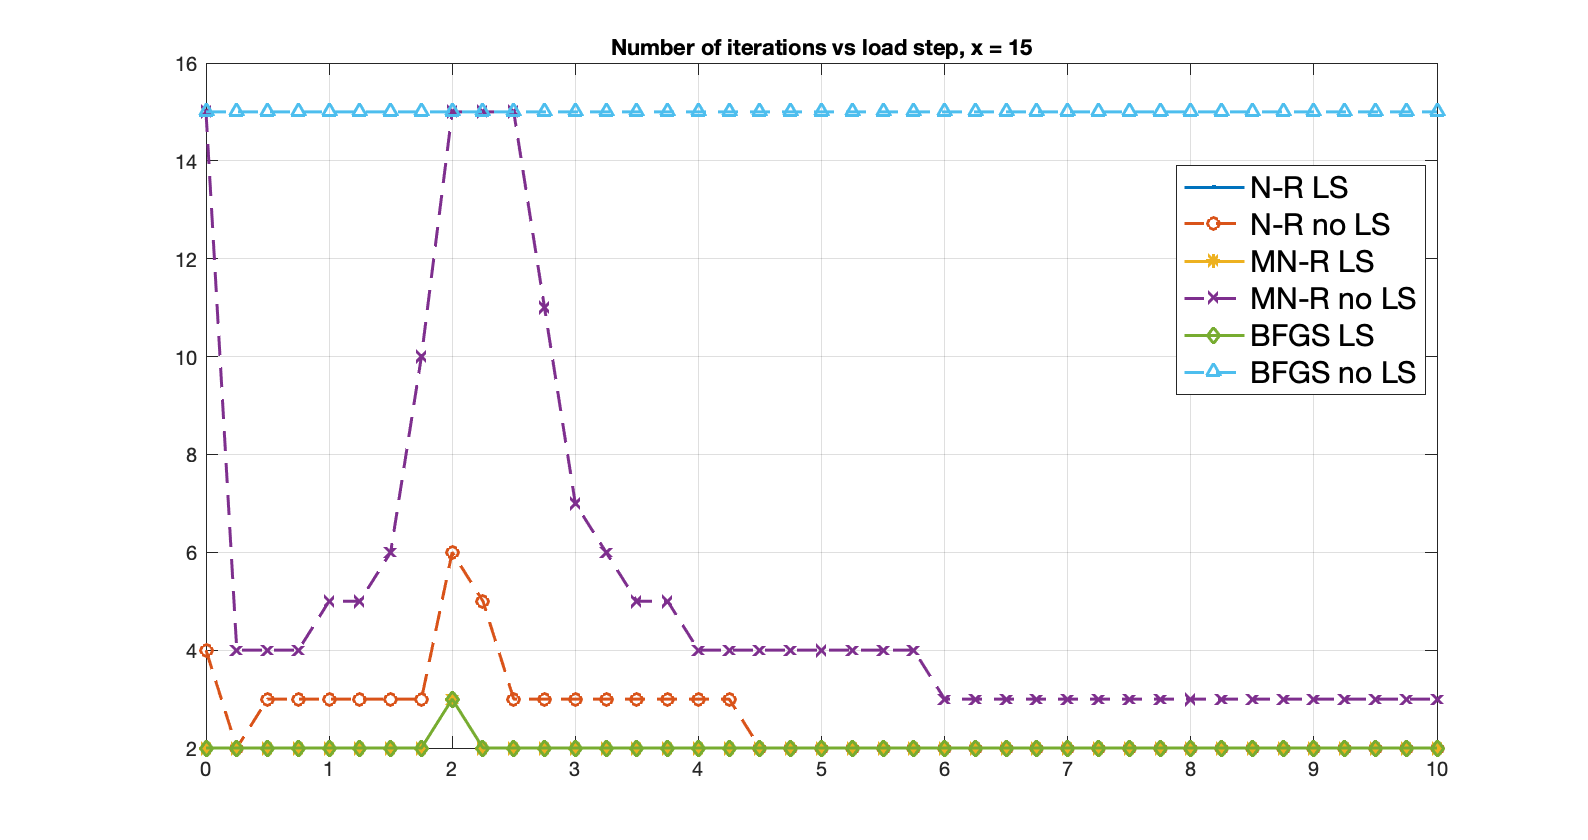
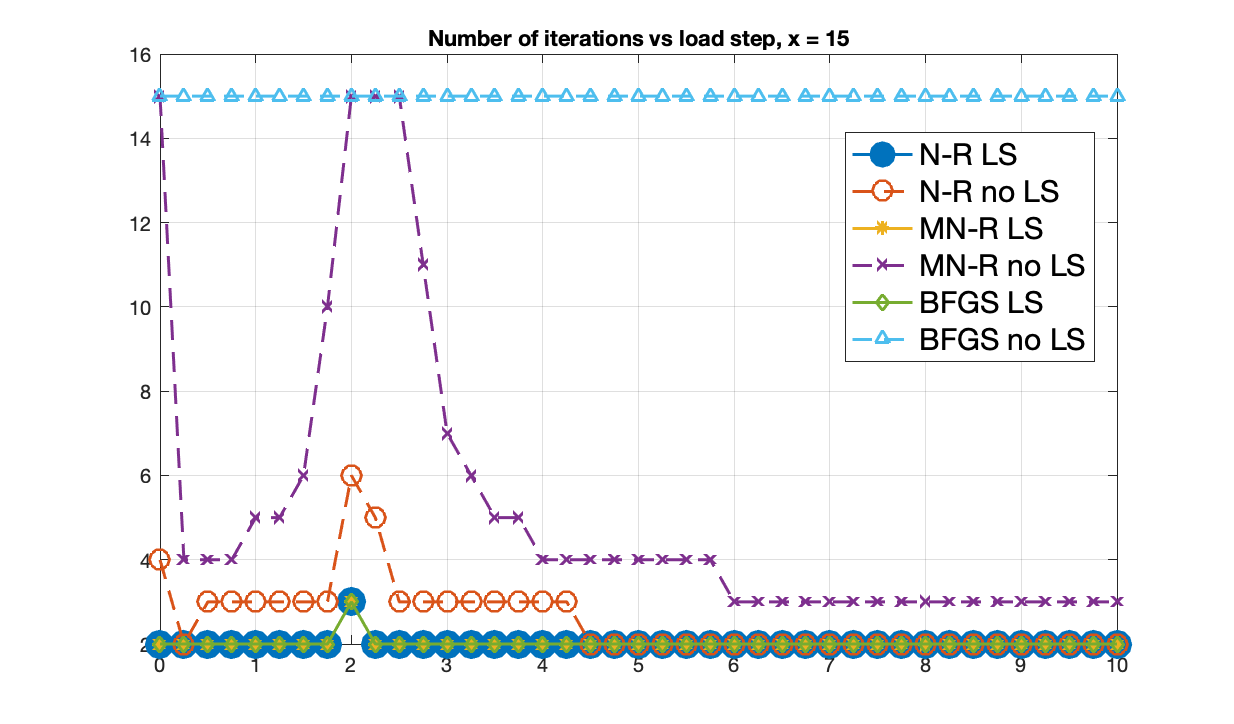
Plots and code for problem 3

diff --git a/NonlinearMethodPlotter.m b/NonlinearMethodPlotter.m
@@ -69,10 +69,10 @@ plot(d_Exact, NX,  'k.', 'MarkerSize', 15, 'DisplayName', 'Exact')
 hold on
 
 plot(d_NR_ls, N_NR_ls, '.-', 'DisplayName', 'N-R LS', 'LineWidth',1.5,...
-    'Color',[0 0.4470 0.7410])
+    'Color',[0 0.4470 0.7410], 'MarkerSize',50)
 %
 plot(d_NR_nls, N_NR_nls, 'o--', 'DisplayName', 'N-R no LS', 'LineWidth',1.5,...
-    'Color',[0.8500 0.3250 0.0980])
+    'Color',[0.8500 0.3250 0.0980], 'MarkerSize',10)
 
 plot(d_MNR_ls, N_MNR_ls, '*-', 'DisplayName', 'MN-R LS', 'LineWidth',1.5,...
     'Color',[0.9290 0.6940 0.1250])
@@ -93,7 +93,7 @@ legend('FontSize', 15)
 subplot(1,2,2)
 
 semilogy(d_NR_ls, abs(N_NR_ls - NX)./abs(NX), '.', 'DisplayName', 'N-R LS','MarkerSize', 10,...
-    'Color',[0 0.4470 0.7410], 'LineWidth', 1.5)
+    'Color',[0 0.4470 0.7410], 'LineWidth', 1.5, 'MarkerSize', 50)
 hold on
 semilogy(d_NR_nls, abs(N_NR_nls - NX)./abs(NX), 'o', 'DisplayName', 'N-R no LS','MarkerSize', 10,...
     'Color',[0.8500 0.3250 0.0980], 'LineWidth', 1.5)
@@ -110,7 +110,7 @@ semilogy(d_BFGS_nls, abs(N_BFGS_nls-NX)./abs(NX), '^', 'DisplayName', 'BFGS no L
 grid on
 title(sprintf('Relative Error x = %i', x))
 xlabel('d')
-ylabel('Relative Error')
+ylabel('Relative Error in N(d)')
 
 sgtitle(sprintf('x = %i', x))
 
@@ -119,10 +119,10 @@ figure(Name='Convergence')
 
 
 plot(Fi, i_NR_ls, '.-', 'DisplayName', 'N-R LS', 'LineWidth',1.5,...
-    'Color',[0 0.4470 0.7410])
+    'Color',[0 0.4470 0.7410], 'MarkerSize',50)
 hold on
 plot(Fi, i_NR_nls, 'o--', 'DisplayName', 'N-R no LS', 'LineWidth',1.5,...
-    'Color',[0.8500 0.3250 0.0980])
+    'Color',[0.8500 0.3250 0.0980],'MarkerSize',10)
 
 plot(Fi, i_MNR_ls, '*-', 'DisplayName', 'MN-R LS', 'LineWidth',1.5,...
     'Color',[0.9290 0.6940 0.1250])

diff --git a/ExactN.m b/ExactN.m
@@ -6,7 +6,7 @@ p = [0.5, -5, (x+Fi), -10*Fi];
 root = roots(p);
 
 for i =1:length(root)
-    if imag(root(i))== 0 %cubic will have exactly 1 real root
+    if imag(root(i))== 0 %cubic polynomial will have exactly 1 real root
         di = (root(i)); 
     end
 end
